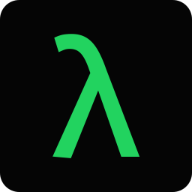
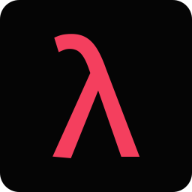
mr-robot: green -> crimson
fsociety is red on black anyway. Accent #f43f5e (bright crimson-rose,
readable on near-black; true #dc143c is too dark for text), hover
#be123c. Light mode redesigned as crimson-ink-on-white, replacing the
murky paper-terminal green that read as off. Scanlines and glow stay,
now glowing red. Favicon recoloured to match.

Changed region(s): [[0.2812, 0.1562, 0.75, 0.8438]]

diff --git a/src/styles/global.css b/src/styles/global.css
@@ -2,33 +2,33 @@
 
 :root {
 	--bg:         #050505;
-	--surface:    #0e0f0e;
-	--border:     #212621;
-	--text:       #e6ebe6;
-	--text-muted: #7e877e;
-	--accent:     #22d35f;
-	--accent-dim: #159a45;
-	--c-green:    #86efac;
-	--c-blue:     #3ec5da;
-	--c-yellow:   #e0b94f;
+	--surface:    #100d0e;
+	--border:     #262023;
+	--text:       #eceae8;
+	--text-muted: #8f8789;
+	--accent:     #f43f5e;
+	--accent-dim: #be123c;
+	--c-green:    #4ade80;
+	--c-blue:     #38bdf8;
+	--c-yellow:   #facc15;
 	--font-mono:   'JetBrains Mono', 'Fira Code', 'Cascadia Code', monospace;
 	--box-shadow:  0 0 0 1px var(--border), 0 4px 24px color-mix(in srgb, var(--accent) 5%, transparent);
 	--header-bg:   rgba(5, 5, 5, 0.95);
 }
 
 html[data-theme='light'] {
-	--bg:         #f5f5f2;
-	--surface:    #ebece9;
-	--border:     #d2d5d2;
-	--text:       #141614;
-	--text-muted: #5d665d;
-	--accent:     #0c7a3a;
-	--accent-dim: #085228;
+	--bg:         #fafaf8;
+	--surface:    #f1f0ee;
+	--border:     #d8d5d3;
+	--text:       #171417;
+	--text-muted: #6b6467;
+	--accent:     #be123c;
+	--accent-dim: #9f1239;
 	--c-green:    #15803d;
-	--c-blue:     #0e7490;
-	--c-yellow:   #926b00;
+	--c-blue:     #0369a1;
+	--c-yellow:   #a16207;
 	--box-shadow:  0 0 0 1px var(--border), 0 4px 24px color-mix(in srgb, var(--accent) 8%, transparent);
-	--header-bg:   rgba(245, 245, 242, 0.93);
+	--header-bg:   rgba(250, 250, 248, 0.93);
 }
 
 /* Shiki dual-theme code blocks (config emits --shiki-light/--shiki-dark vars) */
